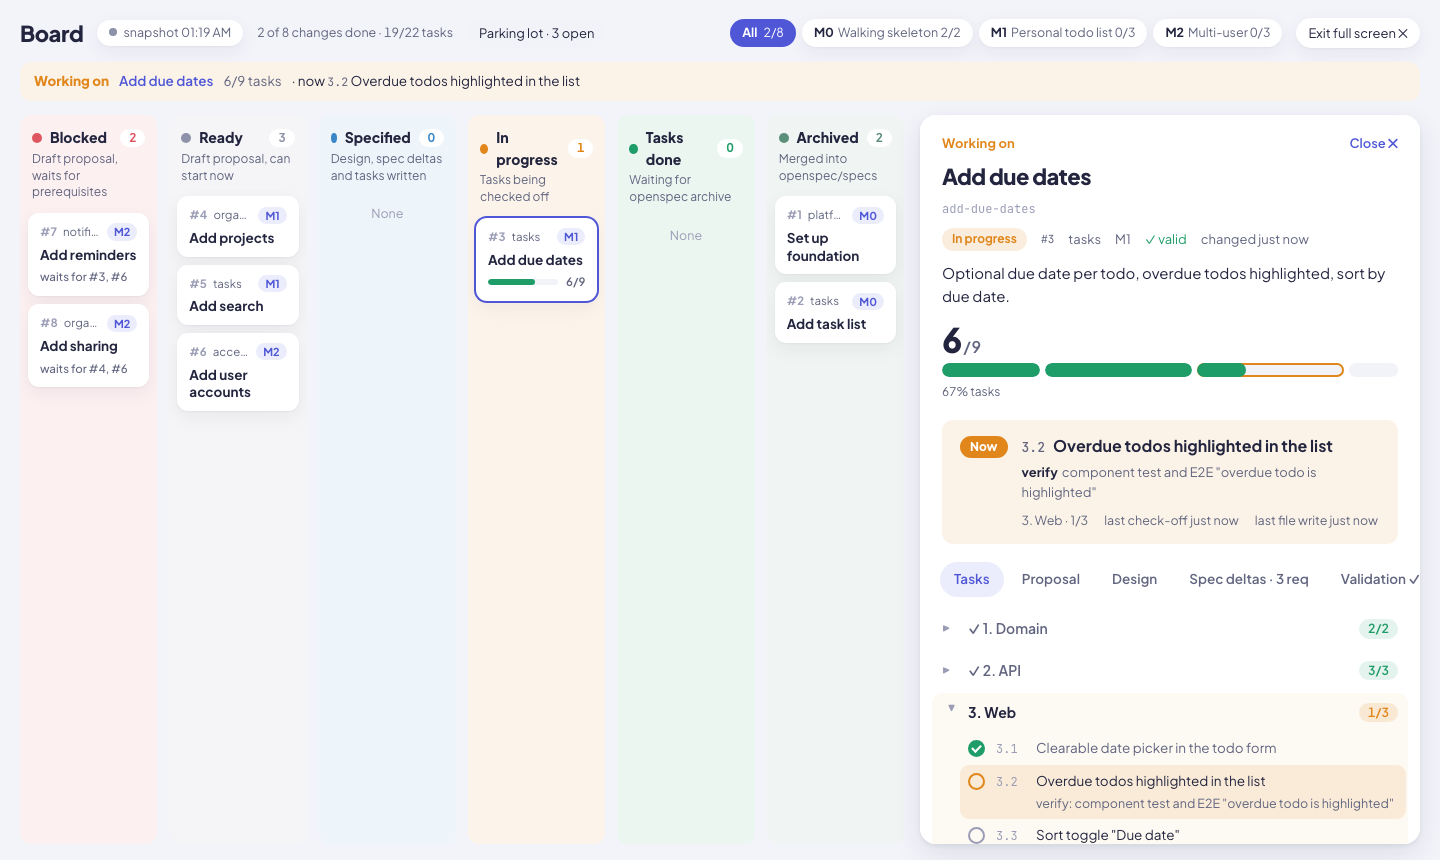
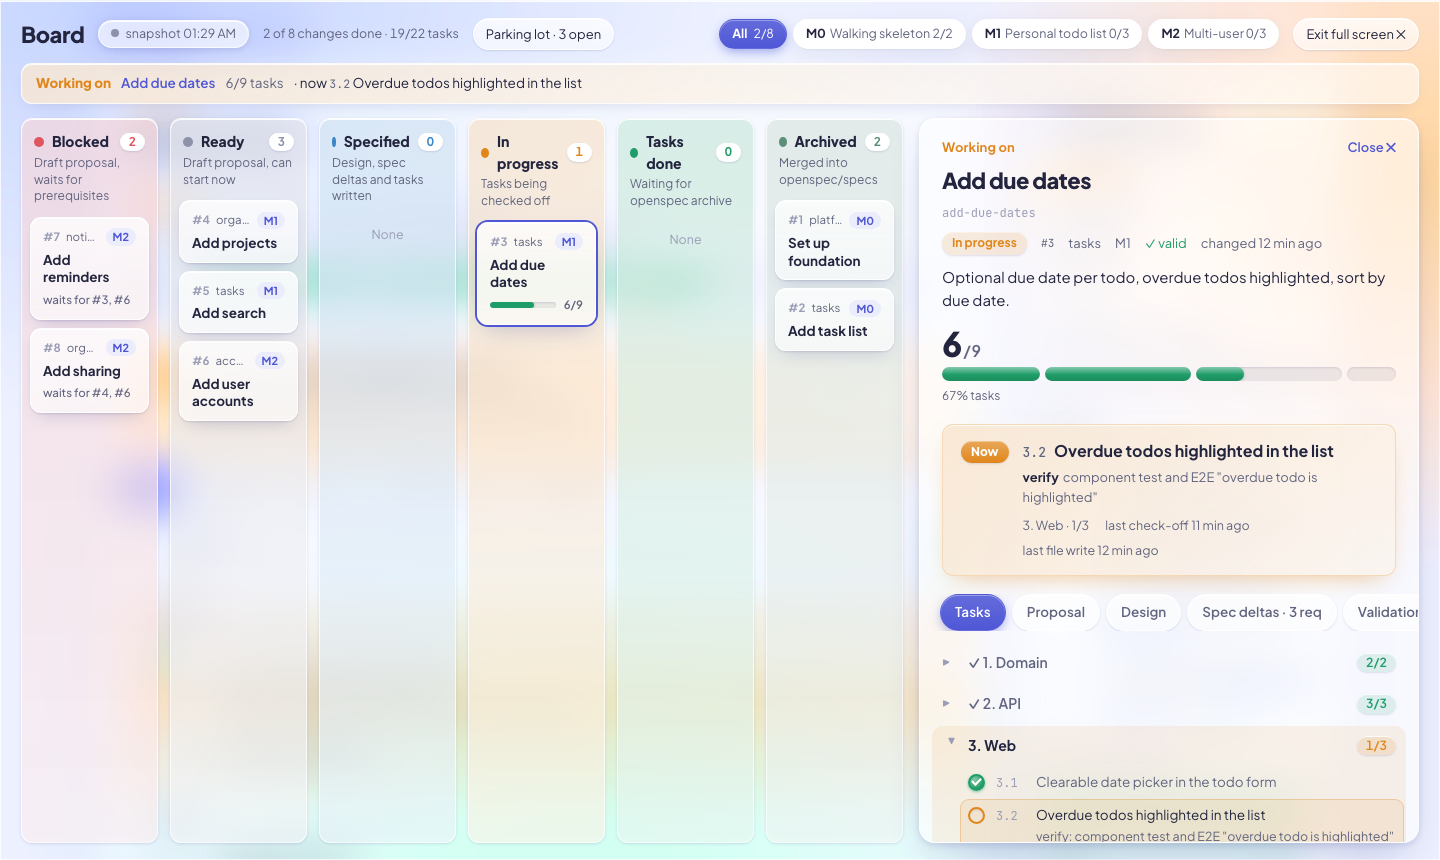
Add glass style to the dashboard, use it for the guide's screenshots
- Glass style: frosted translucent surfaces over a soft colour field, layered shadows,
  glossy progress bars, raised controls; light and dark; solid fallback without blur
- Header button switches Flat/Glass (remembered); ?style= and ?theme= in the address
- User guide: main screenshots in Glass, new Styles section with Flat light/dark and Glass dark

diff --git a/tools/openspec-dashboard/index.html b/tools/openspec-dashboard/index.html
@@ -247,6 +247,130 @@ body.board-max { overflow: hidden; }
 .drawer .progress { grid-template-columns: 1fr; }
 .drawer .seg-labels { display: none; }
 
+/* ---------------------------------------------------------------- style: glass
+   Frosted, translucent surfaces over a soft colour field; depth from layered shadows and top highlights.
+   Active with <html data-style="glass">; every colour comes from the tokens below (light + both dark blocks). */
+:root {
+  --g-field-1: #c9d3ff; --g-field-2: #ffd9b8; --g-field-3: #bdf0dc; --g-field-base: #eef0fb;
+  --g-surface: rgba(255, 255, 255, .58);
+  --g-surface-strong: rgba(255, 255, 255, .78);
+  --g-edge: rgba(255, 255, 255, .75);
+  --g-hi: rgba(255, 255, 255, .9);
+  --g-shade: rgba(40, 46, 120, .14);
+  --g-shade-strong: rgba(40, 46, 120, .24);
+  --g-track: rgba(35, 37, 63, .08);
+}
+@media (prefers-color-scheme: dark) {
+  :root:not([data-theme="light"]) {
+    --g-field-1: #2b2f86; --g-field-2: #6b3416; --g-field-3: #0f5a46; --g-field-base: #0d0f1a;
+    --g-surface: rgba(30, 33, 52, .55); --g-surface-strong: rgba(36, 39, 62, .78);
+    --g-edge: rgba(255, 255, 255, .10); --g-hi: rgba(255, 255, 255, .14);
+    --g-shade: rgba(0, 0, 0, .40); --g-shade-strong: rgba(0, 0, 0, .55); --g-track: rgba(255, 255, 255, .08);
+  }
+}
+:root[data-theme="dark"] {
+  --g-field-1: #2b2f86; --g-field-2: #6b3416; --g-field-3: #0f5a46; --g-field-base: #0d0f1a;
+  --g-surface: rgba(30, 33, 52, .55); --g-surface-strong: rgba(36, 39, 62, .78);
+  --g-edge: rgba(255, 255, 255, .10); --g-hi: rgba(255, 255, 255, .14);
+  --g-shade: rgba(0, 0, 0, .40); --g-shade-strong: rgba(0, 0, 0, .55); --g-track: rgba(255, 255, 255, .08);
+}
+:root[data-style="glass"] body {
+  background:
+    radial-gradient(60vmax 45vmax at 8% -5%, var(--g-field-1), transparent 70%),
+    radial-gradient(50vmax 40vmax at 100% 20%, var(--g-field-2), transparent 70%),
+    radial-gradient(55vmax 45vmax at 40% 110%, var(--g-field-3), transparent 70%),
+    var(--g-field-base);
+  background-attachment: fixed;
+}
+:root[data-style="glass"] .panel,
+:root[data-style="glass"] .drawer,
+:root[data-style="glass"] .live > span,
+:root[data-style="glass"] .board-live {
+  background: var(--g-surface);
+  -webkit-backdrop-filter: blur(22px) saturate(170%);
+  backdrop-filter: blur(22px) saturate(170%);
+  border: 1px solid var(--g-edge);
+  box-shadow: inset 0 1px 0 var(--g-hi), 0 2px 6px var(--g-shade), 0 18px 40px -12px var(--g-shade-strong);
+}
+:root[data-style="glass"] .board.max { background: transparent; }
+:root[data-style="glass"] .col {
+  background: linear-gradient(180deg, color-mix(in srgb, var(--st) 16%, var(--g-surface)), color-mix(in srgb, var(--st) 6%, var(--g-surface)));
+  border: 1px solid var(--g-edge);
+  box-shadow: inset 0 1px 0 var(--g-hi), 0 1px 3px var(--g-shade);
+}
+:root[data-style="glass"] .board.max .col {
+  -webkit-backdrop-filter: blur(18px) saturate(160%); backdrop-filter: blur(18px) saturate(160%);
+}
+:root[data-style="glass"] .kc {
+  background: linear-gradient(180deg, var(--g-surface-strong), var(--g-surface));
+  border: 1px solid var(--g-edge);
+  box-shadow: inset 0 1px 0 var(--g-hi), 0 1px 2px var(--g-shade), 0 8px 18px -8px var(--g-shade-strong);
+}
+:root[data-style="glass"] .kc:hover { transform: translateY(-2px); box-shadow: inset 0 1px 0 var(--g-hi), 0 2px 4px var(--g-shade), 0 16px 28px -10px var(--g-shade-strong); }
+:root[data-style="glass"] .kc.focus { box-shadow: 0 0 0 2px var(--accent), inset 0 1px 0 var(--g-hi), 0 12px 24px -8px var(--g-shade-strong); }
+:root[data-style="glass"] .bar,
+:root[data-style="glass"] .seg { background: var(--g-track); box-shadow: inset 0 1px 2px var(--g-shade); }
+:root[data-style="glass"] .bar > span,
+:root[data-style="glass"] .seg > span {
+  background-image: linear-gradient(180deg, rgba(255, 255, 255, .45), rgba(255, 255, 255, 0) 55%, rgba(0, 0, 0, .10));
+  box-shadow: 0 1px 3px color-mix(in srgb, var(--st-complete) 45%, transparent);
+}
+:root[data-style="glass"] .now {
+  background: linear-gradient(135deg, color-mix(in srgb, var(--st-progress) 18%, var(--g-surface-strong)), color-mix(in srgb, var(--st-progress) 6%, var(--g-surface)));
+  border: 1px solid color-mix(in srgb, var(--st-progress) 30%, var(--g-edge));
+  box-shadow: inset 0 1px 0 var(--g-hi), 0 10px 24px -12px color-mix(in srgb, var(--st-progress) 55%, transparent);
+}
+:root[data-style="glass"] .now.done {
+  background: linear-gradient(135deg, color-mix(in srgb, var(--st-complete) 18%, var(--g-surface-strong)), color-mix(in srgb, var(--st-complete) 6%, var(--g-surface)));
+  border-color: color-mix(in srgb, var(--st-complete) 30%, var(--g-edge));
+  box-shadow: inset 0 1px 0 var(--g-hi), 0 10px 24px -12px color-mix(in srgb, var(--st-complete) 55%, transparent);
+}
+:root[data-style="glass"] .board-now {
+  background: linear-gradient(135deg, color-mix(in srgb, var(--st-progress) 16%, var(--g-surface-strong)), var(--g-surface));
+  border: 1px solid var(--g-edge);
+  box-shadow: inset 0 1px 0 var(--g-hi), 0 6px 18px -10px var(--g-shade-strong);
+  -webkit-backdrop-filter: blur(16px); backdrop-filter: blur(16px);
+}
+:root[data-style="glass"] .now .tag,
+:root[data-style="glass"] .pill {
+  box-shadow: inset 0 1px 0 rgba(255, 255, 255, .35), 0 1px 2px var(--g-shade);
+}
+:root[data-style="glass"] .now .tag { background-image: linear-gradient(180deg, rgba(255, 255, 255, .28), rgba(255, 255, 255, 0)); }
+:root[data-style="glass"] .btn,
+:root[data-style="glass"] .tab,
+:root[data-style="glass"] .ms-filter button,
+:root[data-style="glass"] .eyebrow .switch button {
+  background: linear-gradient(180deg, var(--g-surface-strong), var(--g-surface));
+  border: 1px solid var(--g-edge);
+  box-shadow: inset 0 1px 0 var(--g-hi), 0 1px 2px var(--g-shade);
+}
+:root[data-style="glass"] .btn:hover,
+:root[data-style="glass"] .ms-filter button:hover,
+:root[data-style="glass"] .tab:hover:not(:disabled) { box-shadow: inset 0 1px 0 var(--g-hi), 0 4px 10px -2px var(--g-shade-strong); }
+:root[data-style="glass"] .tab[aria-selected="true"],
+:root[data-style="glass"] .ms-filter button[aria-pressed="true"],
+:root[data-style="glass"] .eyebrow .switch button[aria-pressed="true"] {
+  background: linear-gradient(180deg, color-mix(in srgb, var(--accent) 88%, white), var(--accent));
+  color: var(--surface); border-color: transparent;
+  box-shadow: inset 0 1px 0 rgba(255, 255, 255, .35), 0 4px 12px -2px color-mix(in srgb, var(--accent) 55%, transparent);
+}
+:root[data-style="glass"] .ms-filter button[aria-pressed="true"] b { color: var(--surface); }
+:root[data-style="glass"] .tabs { gap: 6px; }
+:root[data-style="glass"] .task.done .box {
+  background: radial-gradient(circle at 35% 30%, color-mix(in srgb, var(--st-complete) 55%, white), var(--st-complete) 70%);
+  box-shadow: 0 1px 3px color-mix(in srgb, var(--st-complete) 55%, transparent);
+}
+:root[data-style="glass"] .box { box-shadow: inset 0 1px 2px var(--g-shade); }
+:root[data-style="glass"] .task.cur,
+:root[data-style="glass"] details.group.current { background: color-mix(in srgb, var(--st-progress) 10%, transparent); }
+:root[data-style="glass"] .task.cur { box-shadow: inset 0 0 0 1px color-mix(in srgb, var(--st-progress) 30%, transparent); }
+:root[data-style="glass"] code { background: var(--g-track); }
+:root[data-style="glass"] .col-head .t .num,
+:root[data-style="glass"] details.group > summary .num { box-shadow: inset 0 1px 0 var(--g-hi), 0 1px 2px var(--g-shade); }
+@supports not ((backdrop-filter: blur(1px)) or (-webkit-backdrop-filter: blur(1px))) {
+  :root[data-style="glass"] .panel, :root[data-style="glass"] .drawer { background: var(--g-surface-strong); }
+}
+
 @media (max-width: 1000px) {
   .main { grid-template-columns: 1fr; }
   .board.max { overflow: auto; }
@@ -272,6 +396,7 @@ body.board-max { overflow: hidden; }
     <div class="live">
       <span id="conn"><span class="dot"></span>connecting…</span>
       <span id="cli"></span>
+      <button class="btn" id="style" type="button" title="Switch between the flat and the glass style">Glass</button>
       <button class="btn" id="theme" type="button" aria-label="Toggle light or dark theme">◐</button>
     </div>
   </div>
@@ -300,6 +425,23 @@ const STATUS = {
 };
 const ui = { state: null, pinned: null, tab: 'tasks', open: new Map(), fileCache: new Map(), fresh: new Set(), prevCol: new Map(), ms: '', boardMax: false, drawer: null, drawerScroll: 0, colScroll: new Map() };
 try { const t = localStorage.getItem('osd-theme'); if (t) document.documentElement.dataset.theme = t; ui.ms = localStorage.getItem('osd-ms') || ''; } catch {}
+// visual style: flat (default) or glass; ?style=glass overrides the remembered choice
+const STYLES = ['flat', 'glass'];
+function applyStyle(name) {
+  const st = STYLES.includes(name) ? name : 'flat';
+  if (st === 'flat') delete document.documentElement.dataset.style; else document.documentElement.dataset.style = st;
+  const b = document.getElementById('style');
+  if (b) b.textContent = st === 'flat' ? 'Glass' : 'Flat';
+  return st;
+}
+{
+  // ?theme=light|dark overrides the remembered light/dark choice (links, screenshots)
+  const qt = new URLSearchParams(location.search).get('theme');
+  if (qt === 'light' || qt === 'dark') document.documentElement.dataset.theme = qt;
+  let st = new URLSearchParams(location.search).get('style');
+  if (!st) { try { st = localStorage.getItem('osd-style'); } catch {} }
+  applyStyle(st);
+}
 
 const $ = (id) => document.getElementById(id);
 const esc = (s) => String(s ?? '').replace(/[&<>"']/g, (c) => ({ '&': '&amp;', '<': '&lt;', '>': '&gt;', '"': '&quot;', "'": '&#39;' }[c]));
@@ -695,6 +837,10 @@ document.addEventListener('toggle', (e) => {
   const d = e.target;
   if (d.matches?.('details.group')) ui.open.set(d.dataset.key, d.open);
 }, true);
+$('style').addEventListener('click', () => {
+  const st = applyStyle(document.documentElement.dataset.style === 'glass' ? 'flat' : 'glass');
+  try { localStorage.setItem('osd-style', st); } catch {}
+});
 $('theme').addEventListener('click', () => {
   const root = document.documentElement;
   const dark = root.dataset.theme ? root.dataset.theme === 'dark' : matchMedia('(prefers-color-scheme: dark)').matches;

diff --git a/docs/user-guide.md b/docs/user-guide.md
@@ -68,7 +68,8 @@ You stay in control of three things:
 ## 4. Follow the progress
 
 Start the dashboard in your project (`node <path-to>/tools/openspec-dashboard/server.mjs`) and keep it open while
-the agent works. It updates within a second of every file change.
+the agent works. It updates within a second of every file change. The screenshots show the **Glass** style; see
+[Styles](#styles) for the others.
 
 ![Dashboard overview](images/dashboard-overview.png)
 
@@ -90,6 +91,17 @@ Click a card to open its details next to the board; `Esc` closes them. A link to
 `#board:<change>`, e.g. http://127.0.0.1:4590/#board:add-due-dates:
 
 ![Board with the details of a change](images/dashboard-board-details.png)
+
+## Styles
+
+The dashboard has two styles, **Flat** (the default) and **Glass**, each in light and dark. The **Glass** / **Flat**
+button in the header switches the style, ◐ switches light and dark; both choices are remembered per browser.
+In a link, `?style=glass|flat` and `?theme=light|dark` set them, e.g.
+http://127.0.0.1:4590/?style=glass&theme=dark.
+
+| Flat, light | Flat, dark | Glass, dark |
+|---|---|---|
+| ![Flat style, light](images/style-flat-light.png) | ![Flat style, dark](images/style-flat-dark.png) | ![Glass style, dark](images/style-glass-dark.png) |
 
 ## Tips
 

diff --git a/tools/openspec-dashboard/README.md b/tools/openspec-dashboard/README.md
@@ -73,7 +73,8 @@ Without a working CLI everything except the validation results still works.
 | `--history=<file>` | `$XDG_STATE_HOME/openspec-dashboard/<project>-<hash>.json` (`~/.local/state/…`) | activity history |
 | `--no-open` | | do not open the browser (macOS) |
 
-`?snapshot` in the address loads the data once without the live stream (useful for screenshots).
+In the address, `?style=flat|glass` and `?theme=light|dark` choose the look (otherwise the header buttons and the
+system setting decide), and `?snapshot` loads the data once without the live stream (useful for screenshots).
 
 ## Notes
 
